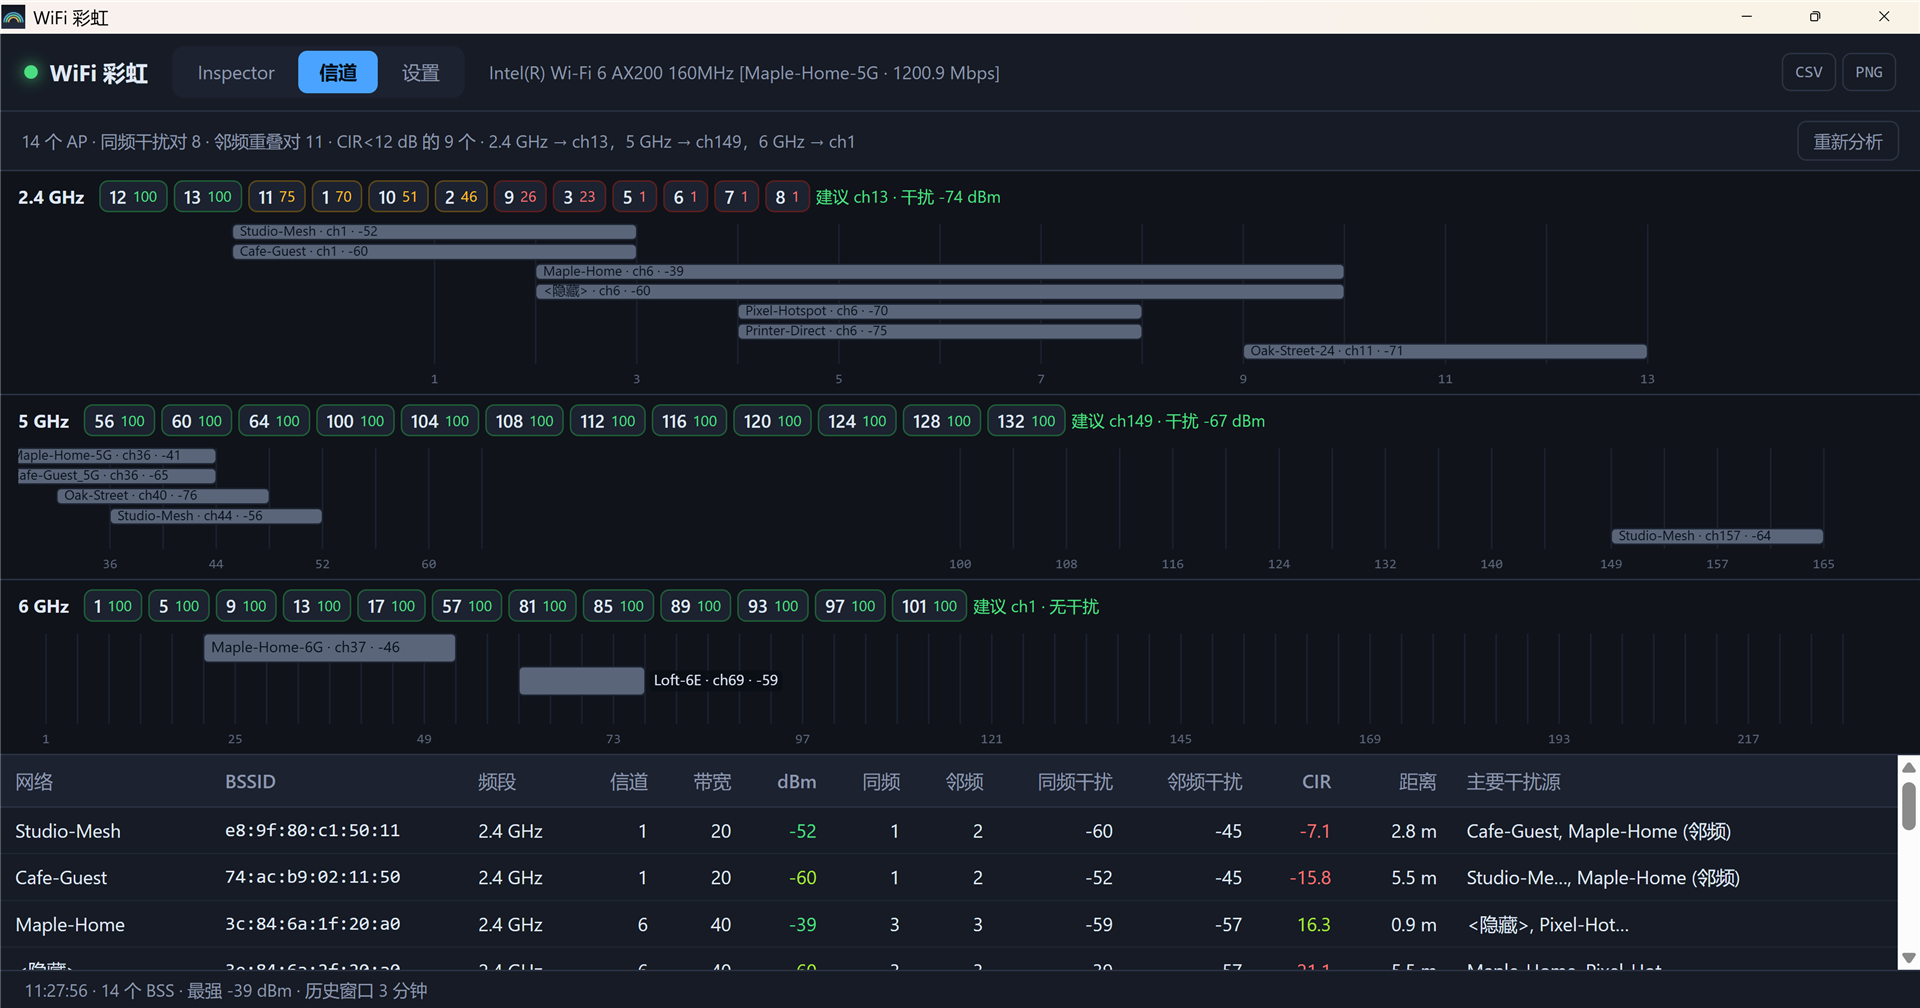
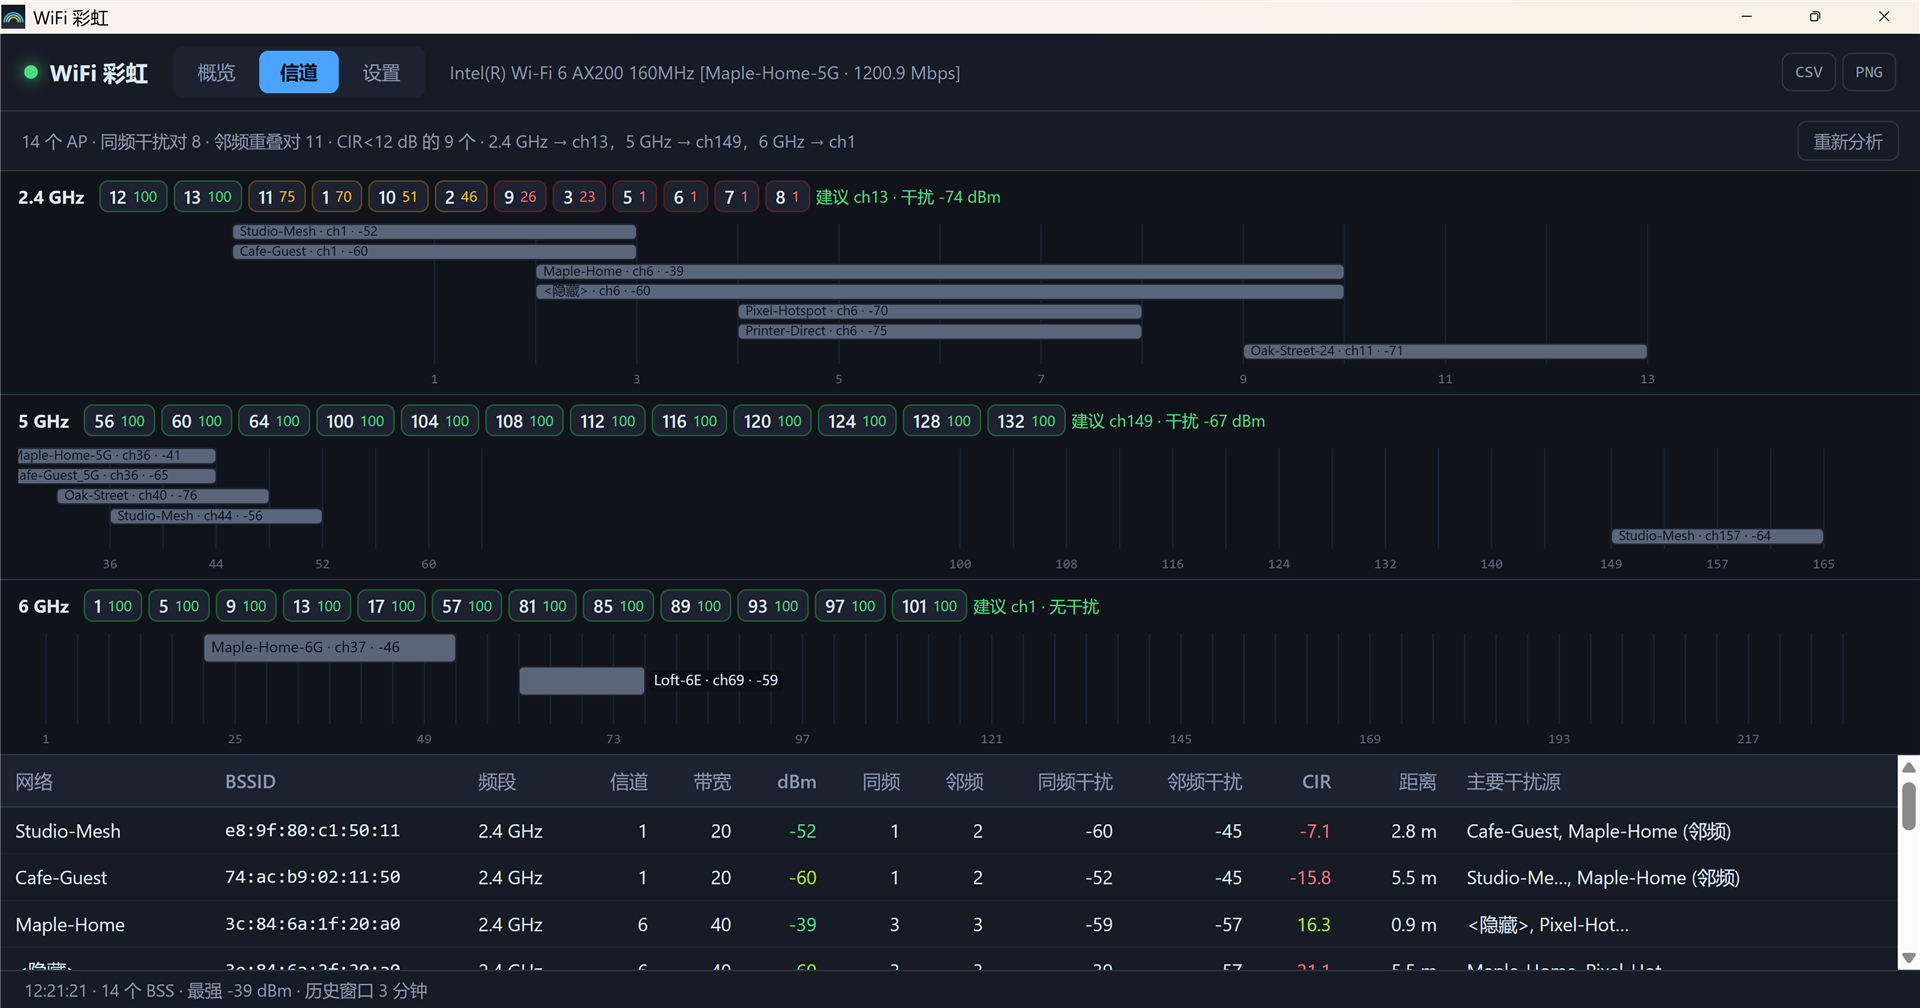
Channel hover highlight, "概览" as the Chinese Inspector name, clearer landing copy
- Channels view: hovering a channel score chip, or the spectrum at a
  channel number, highlights every AP whose spectrum overlaps that channel
  (bright bars with white outline, others dimmed, blue band behind the
  channel, "chN · k AP" label) and the matching table rows. Selftest
  probe `chhover` checks hit counts, table rows and clearing.
- Chinese UI: the Inspector tab is now 概览; manuals, README and landing
  page follow.
- Landing page copy rewritten in both languages in plain words; the
  Events tab now explains how to reach the panel and what each row means.
- Manuals gain a hover-highlight paragraph with screenshots; Chinese
  screenshots retaken with the new tab name.

Changed region(s): [[0.0938, 0.0308, 0.5312, 0.0923]]

diff --git a/rust/ui/channels.js b/rust/ui/channels.js
@@ -146,8 +146,22 @@ const Channels = (() => {
     return 'bad';
   }
 
+  // 当前高亮的信道：鼠标悬在评分标签上，或悬在频谱图里某个信道的位置
+  let hover = null; // { band, ch }
+  let lastBands = []; // 上一次 render 的 analyze 结果，重画单个频段时用
+
+  /** 一个 AP 算不算「在这个信道上」：和打分同一口径——频谱跟信道中心 ±10 MHz 有重叠 */
+  function onChannel(ap, band, ch) {
+    const center = freqOf(band, ch);
+    if (!center) return false;
+    const s = spanOf(ap);
+    return Math.min(center + 10, s.hi) - Math.max(center - 10, s.lo) > 0;
+  }
+
   function drawSpectrum(cv, bandInfo) {
     const { spec } = bandInfo;
+    const hl = hover && hover.band === bandInfo.band ? hover.ch : null;
+    cv._bandInfo = bandInfo;
     // 同频 AP 太多时行高会撑不住，只画最强的 8 个（完整清单在下表）
     const all = bandInfo.aps;
     const MAX_ROWS = 8;
@@ -164,6 +178,14 @@ const Channels = (() => {
     const baseline = padT + plotH;
     const xOf = (f) => padL + ((f - spec.min) / (spec.max - spec.min)) * plotW;
 
+    // 高亮信道：先铺一条浅色竖带（信道中心 ±10 MHz），再画刻度
+    cv._geom = { xOf, padL, padR, padT, baseline, w, h, plotW };
+    if (hl != null) {
+      const c = freqOf(bandInfo.band, hl);
+      ctx.fillStyle = 'rgba(74, 163, 255, 0.10)';
+      ctx.fillRect(xOf(c - 10), padT - 2, xOf(c + 10) - xOf(c - 10), baseline - padT + 2);
+    }
+
     // 底：候选信道的浅色刻度
     ctx.strokeStyle = '#1b2230';
     ctx.lineWidth = 1;
@@ -173,14 +195,21 @@ const Channels = (() => {
     const labelEvery = spec.chans.length > 26 ? 6 : 2;
     spec.chans.forEach((ch, i) => {
       const x = xOf(freqOf(bandInfo.band, ch));
+      ctx.strokeStyle = ch === hl ? '#4aa3ff' : '#1b2230';
       ctx.beginPath();
       ctx.moveTo(x, padT);
       ctx.lineTo(x, baseline);
       ctx.stroke();
-      if (i % labelEvery === 0) ctx.fillText(String(ch), x, h - 5);
+      if (i % labelEvery === 0 || ch === hl) {
+        ctx.fillStyle = ch === hl ? '#9fd0ff' : '#5b6579';
+        ctx.font = ch === hl ? 'bold 9px Consolas, monospace' : '9px Consolas, monospace';
+        ctx.fillText(String(ch), x, h - 5);
+      }
     });
+    ctx.font = '9px Consolas, monospace';
 
     if (!aps.length) {
+      cv._hl = null;
       ctx.fillStyle = '#4b5566';
       ctx.font = '12px "Segoe UI", sans-serif';
       ctx.textAlign = 'center';
@@ -199,15 +228,18 @@ const Channels = (() => {
       const y = padT + i * rowH;
       const bh = Math.max(5, rowH - 3);
       const color = rssiColor(ap.rssi);
-      ctx.fillStyle = hexAlpha(color, 0.75);
+      // 高亮态：命中的条全亮 + 白边，其余压暗
+      const hit = hl != null && onChannel(ap, bandInfo.band, hl);
+      const dim = hl != null && !hit;
+      ctx.fillStyle = hexAlpha(color, dim ? 0.18 : hit ? 0.95 : 0.75);
       ctx.beginPath();
       const r = Math.min(3, bh / 2);
       ctx.roundRect ? ctx.roundRect(x0, y, Math.max(3, x1 - x0), bh, r) : ctx.rect(x0, y, Math.max(3, x1 - x0), bh);
       ctx.fill();
-      ctx.strokeStyle = hexAlpha(color, 0.95);
-      ctx.lineWidth = 1;
+      ctx.strokeStyle = hit ? '#eef4fc' : hexAlpha(color, dim ? 0.3 : 0.95);
+      ctx.lineWidth = hit ? 1.5 : 1;
       ctx.stroke();
-      jobs.push({ x0, x1, y, bh, color, ap });
+      jobs.push({ x0, x1, y, bh, color, ap, hit, dim });
     });
 
     // 第二遍才写标签：块够宽写在块里（字色按块色算），不够宽贴到块外并垫一块深色底衬。
@@ -224,8 +256,9 @@ const Channels = (() => {
       }
     };
 
-    jobs.forEach(({ x0, x1, y, bh, color, ap }) => {
+    jobs.forEach(({ x0, x1, y, bh, color, ap, hit, dim }) => {
       const label = `${truncate(ap.ssid || t('ch.hidden'), 14)} · ch${ap.channel ?? '?'} · ${ap.rssi}`;
+      ctx.globalAlpha = dim ? 0.35 : 1;
       const fs = rowH >= 14 ? 10 : 9;
       ctx.font = `${fs}px "Segoe UI", "Microsoft YaHei UI", sans-serif`;
       ctx.textAlign = 'left';
@@ -251,7 +284,7 @@ const Channels = (() => {
       if (text !== label) text = text + '…';
       const tw = ctx.measureText(text).width;
       if (inside) {
-        ctx.fillStyle = inkOn(color, 0.75);
+        ctx.fillStyle = inkOn(color, hit ? 0.95 : 0.75);
         ctx.fillText(text, x0 + 5, ty);
       } else {
         let lx = x1 + 6;
@@ -263,9 +296,25 @@ const Channels = (() => {
       }
       labeled++;
       ctx.textBaseline = 'alphabetic';
+      ctx.globalAlpha = 1;
     });
 
     cv._labelStats = { bars: aps.length, labeled };
+    cv._hl = hl == null ? null : { ch: hl, hits: jobs.filter((j) => j.hit).map((j) => j.ap.bssid) };
+
+    // 高亮时在右上角写一行「chN · k 个 AP」
+    if (hl != null) {
+      const n = all.filter((a) => onChannel(a, bandInfo.band, hl)).length;
+      const sc = bandInfo.scored.find((s) => s.ch === hl);
+      const txt = t('ch.chip', { ch: hl, n, if: sc?.ifDbm ?? t('ch.none') });
+      ctx.font = '10px "Segoe UI", "Microsoft YaHei UI", sans-serif';
+      ctx.textAlign = 'right';
+      ctx.textBaseline = 'alphabetic';
+      const tw = ctx.measureText(txt).width;
+      chipBg(w - padR - 2 - tw, padT + 7, tw, 10);
+      ctx.fillStyle = '#9fd0ff';
+      ctx.fillText(txt, w - padR - 2, padT + 11);
+    }
 
     if (hidden > 0) {
       ctx.fillStyle = '#7d889c';
@@ -275,26 +324,79 @@ const Channels = (() => {
     }
   }
 
+  const bandId = (band) => band.replace(/[^0-9a-z]/gi, '');
+
+  /** 设置 / 清除高亮：只重画受影响的频段，并同步评分标签与表格行的高亮类 */
+  function highlight(band, ch) {
+    const next = band && ch != null ? { band, ch } : null;
+    if ((hover?.band ?? null) === (next?.band ?? null) && (hover?.ch ?? null) === (next?.ch ?? null)) return;
+    const prevBand = hover?.band;
+    hover = next;
+    for (const b of lastBands) {
+      if (b.band !== prevBand && b.band !== next?.band) continue;
+      const cv = document.querySelector(`#ch-spec-${bandId(b.band)}`);
+      if (cv) drawSpectrum(cv, b);
+    }
+    document.querySelectorAll('.ch-chip.hl').forEach((el) => el.classList.remove('hl'));
+    document.querySelectorAll('#ch-table tbody tr.hl').forEach((el) => el.classList.remove('hl'));
+    if (!next) return;
+    document.querySelector(`#ch-score-${bandId(next.band)} .ch-chip[data-ch="${next.ch}"]`)?.classList.add('hl');
+    const hits = new Set(Inspector.aps().filter((a) => a.band === next.band && onChannel(a, next.band, next.ch)).map((a) => a.bssid));
+    document.querySelectorAll('#ch-table tbody tr').forEach((tr) => tr.classList.toggle('hl', hits.has(tr.dataset.bssid)));
+  }
+
+  /** 频谱图上鼠标位置对应的信道：取中心频率最近、且在 ±10 MHz 内的候选信道 */
+  function channelAt(cv, ev) {
+    const g = cv._geom;
+    const b = cv._bandInfo;
+    if (!g || !b) return null;
+    const rect = cv.getBoundingClientRect();
+    const x = ev.clientX - rect.left;
+    if (x < g.padL || x > g.w - g.padR) return null;
+    const freq = b.spec.min + ((x - g.padL) / g.plotW) * (b.spec.max - b.spec.min);
+    let best = null;
+    for (const ch of b.spec.chans) {
+      const d = Math.abs(freqOf(b.band, ch) - freq);
+      if (d <= 10 && (!best || d < best.d)) best = { ch, d };
+    }
+    return best ? best.ch : null;
+  }
+
+  function bindHover(cv, band) {
+    if (cv._hoverBound) return;
+    cv._hoverBound = true;
+    cv.addEventListener('mousemove', (ev) => highlight(band, channelAt(cv, ev)));
+    cv.addEventListener('mouseleave', () => highlight(null));
+  }
+
   function render() {
     const aps = Inspector.aps();
     const { rows, bands } = analyze(aps);
+    lastBands = bands;
 
     // 频段：频谱 + 信道评分
     for (const b of bands) {
-      const cv = document.querySelector(`#ch-spec-${b.band.replace(/[^0-9a-z]/gi, '')}`);
-      if (cv) drawSpectrum(cv, b);
-      const host = document.querySelector(`#ch-score-${b.band.replace(/[^0-9a-z]/gi, '')}`);
+      const cv = document.querySelector(`#ch-spec-${bandId(b.band)}`);
+      if (cv) {
+        drawSpectrum(cv, b);
+        bindHover(cv, b.band);
+      }
+      const host = document.querySelector(`#ch-score-${bandId(b.band)}`);
       if (!host) continue;
       const top = [...b.scored].sort((a, c) => c.score - a.score || a.ch - c.ch).slice(0, 12);
       host.innerHTML = top
         .map(
-          (s) => `<span class="ch-chip ${scoreClass(s.score)}" title="${t('ch.chip', { ch: s.ch, n: s.count, if: s.ifDbm ?? '—' })}">
+          (s) => `<span class="ch-chip ${scoreClass(s.score)}${hover?.band === b.band && hover.ch === s.ch ? ' hl' : ''}" data-ch="${s.ch}" title="${t('ch.chip', { ch: s.ch, n: s.count, if: s.ifDbm ?? '—' })}">
             <b>${s.ch}</b><em>${s.score}</em></span>`
         )
         .join('') +
         (b.best
           ? `<span class="ch-best">${t(b.best.dfs ? 'ch.best.dfs' : 'ch.best', { ch: b.best.ch })} · ${b.best.ifDbm != null ? t('ch.ifdbm', { v: b.best.ifDbm }) : t('ch.ifnone')}</span>`
           : `<span class="ch-best">${t('ch.best.none')}</span>`);
+      host.querySelectorAll('.ch-chip[data-ch]').forEach((chip) => {
+        chip.addEventListener('mouseenter', () => highlight(b.band, Number(chip.dataset.ch)));
+        chip.addEventListener('mouseleave', () => highlight(null));
+      });
     }
 
     // 表格
@@ -326,7 +428,9 @@ const Channels = (() => {
           </tr>`;
         })
         .join('');
+      const hits = hover ? new Set(aps.filter((a) => a.band === hover.band && onChannel(a, hover.band, hover.ch)).map((a) => a.bssid)) : null;
       tbody.querySelectorAll('tr').forEach((tr) => {
+        if (hits) tr.classList.toggle('hl', hits.has(tr.dataset.bssid));
         tr.addEventListener('click', () => {
           const ap = Inspector.aps().find((a) => a.bssid === tr.dataset.bssid);
           if (ap) Detail.show(ap);
@@ -364,5 +468,5 @@ const Channels = (() => {
     render();
   }
 
-  return { init, activate, render, analyze, profile, distanceOf, freqOf, spanOf, overlapRatio };
+  return { init, activate, render, analyze, profile, distanceOf, freqOf, spanOf, overlapRatio, highlight, onChannel, hover: () => hover };
 })();

diff --git a/rust/ui/selftest.js b/rust/ui/selftest.js
@@ -59,6 +59,47 @@ const SelfTest = (() => {
       log('error', 'channels probe failed: ' + e);
     }
 
+    // 信道高亮：悬停评分标签 → 对应频谱里命中的条数 = 按 ±10 MHz 口径算出的 AP 数；表格高亮行数一致；离开后清空
+    try {
+      clickTab('channels');
+      await frames();
+      const out = [];
+      for (const band of ['2.4 GHz', '5 GHz']) {
+        const id = band.replace(/[^0-9a-z]/gi, '');
+        const chip = document.querySelector(`#ch-score-${id} .ch-chip[data-ch]`);
+        const cv = document.querySelector(`#ch-spec-${id}`);
+        if (!chip || !cv) {
+          out.push(`${band}:no-chip`);
+          continue;
+        }
+        const ch = Number(chip.dataset.ch);
+        chip.dispatchEvent(new MouseEvent('mouseenter', { bubbles: false }));
+        await frames();
+        const expect = Inspector.aps().filter((a) => a.band === band && Channels.onChannel(a, band, ch));
+        const drawn = Math.min(8, expect.length); // 频谱最多画 8 条
+        const hits = cv._hl?.hits?.length ?? -1;
+        const rows = document.querySelectorAll('#ch-table tbody tr.hl').length;
+        const chipOn = chip.classList.contains('hl');
+        chip.dispatchEvent(new MouseEvent('mouseleave', { bubbles: false }));
+        await frames();
+        const cleared = cv._hl === null && document.querySelectorAll('#ch-table tbody tr.hl, .ch-chip.hl').length === 0;
+        // 画布悬停：在该信道中心位置造一次 mousemove，应该命中同一个信道
+        const g = cv._geom;
+        const b = cv._bandInfo;
+        const x = g.xOf(Channels.freqOf(band, ch));
+        const r = cv.getBoundingClientRect();
+        cv.dispatchEvent(new MouseEvent('mousemove', { bubbles: true, clientX: r.left + x, clientY: r.top + r.height / 2 }));
+        await frames();
+        const viaCanvas = Channels.hover()?.ch === ch && Channels.hover()?.band === band;
+        cv.dispatchEvent(new MouseEvent('mouseleave'));
+        await frames();
+        out.push(`${band}:ch${ch} expect=${expect.length} drawnHits=${hits}/${drawn} rowsHl=${rows} chipOn=${chipOn} cleared=${cleared} canvasHover=${viaCanvas} bars=${b.aps.length}`);
+      }
+      log('info', `selftest chhover: ${out.join(' | ')}`);
+    } catch (e) {
+      log('error', 'chhover probe failed: ' + e);
+    }
+
     // Inspector 布局（用来核对 300% 缩放机器上的实际视口）
     try {
       clickTab('inspector');

diff --git a/rust/ui/i18n.js b/rust/ui/i18n.js
@@ -7,7 +7,7 @@
  *   <button data-i18n-title="chart.max">  只换 title 属性
  *   <input data-i18n-ph="bar.filter">     只换 placeholder
  *
- * 约定：频段名（2.4 GHz）、单位（dBm / MHz / s / m）、信道号（ch36）、BSSID、SSID
+ * 约定：Inspector 视图中文叫「概览」。频段名（2.4 GHz）、单位（dBm / MHz / s / m）、信道号（ch36）、BSSID、SSID
  * 这类行业写法不进字典，两种语言下都一样。SSID 为空的网络按各自语言显示 <hidden>。
  * 开发者日志（ui.log）不进字典，保持中文，方便排查。
  */
@@ -21,7 +21,7 @@ const I18n = (() => {
   const DICT = {
     zh: {
       'app.name': 'WiFi 彩虹',
-      'tab.inspector': 'Inspector',
+      'tab.inspector': '概览',
       'tab.channels': '信道',
       'tab.settings': '设置',
 
@@ -179,7 +179,7 @@ const I18n = (() => {
       'set.bands.hint': '关掉的频段一律不参与',
       'set.scan': '扫描',
       'set.scansec': '自动刷新间隔',
-      'set.scansec.hint': '顶栏那个「自动刷新」开着时才生效，只在 Inspector 视图扫描',
+      'set.scansec.hint': '顶栏那个「自动刷新」开着时才生效，只在「概览」视图扫描',
       'set.sec': '秒',
       'set.iface': '扫描网卡',
       'set.iface.hint': '多块无线网卡时选一块；选中的网卡拔掉后自动退回全部',

diff --git a/rust/ui/style.css b/rust/ui/style.css
@@ -456,6 +456,11 @@ tbody td { padding: 6px 10px; white-space: nowrap; }
 .ch-chip.bad { border-color: #5c1e1e; }
 .ch-chip.bad em { color: var(--bad); }
 .ch-best { margin-left: auto; font-size: 11px; color: var(--good); white-space: nowrap; }
+.ch-chip { cursor: default; }
+.ch-chip.hl { background: #14304d; border-color: var(--accent); color: #dbe6f5; }
+.ch-chip.hl em { color: #9fd0ff; }
+#ch-table tbody tr.hl > td { background: #1d2a3d; }
+#ch-table tbody tr.hl > td:first-child { box-shadow: inset 3px 0 0 var(--accent); }
 
 .ch-table-wrap { background: var(--panel); overflow: auto; padding-bottom: 6px; }
 #ch-table tbody tr { cursor: pointer; }

diff --git a/rust/ui/demo.js b/rust/ui/demo.js
@@ -149,6 +149,10 @@ const Demo = (() => {
       Inspector.toggleMax('b1');
     } else if (view === 'channels') {
       clickTab('channels');
+    } else if (view === 'chhover') {
+      clickTab('channels');
+      await frames();
+      Channels.highlight('2.4 GHz', 6);
     } else if (view === 'settings') {
       clickTab('settings');
     }

diff --git a/TODO.md b/TODO.md
@@ -5,7 +5,7 @@
 
 ## 0. 现在在哪儿
 
-能用的：Inspector（三频段弧形图 + 3 分钟信号历史 / 变更事件 + 可排序筛选、**可按路由分组**的 AP 表）、信道视图（频谱占用 + 同/邻频重叠 + CIR + 候选信道评分）、AP 详情抽屉（含**当前连接实况**、别名、关注）、设置（隐藏 SSID / 最低信号 / 频段开关 / 刷新间隔 / 扫描网卡 / 分组 / 关注列表 / 别名 / 中英双语）、CSV / PNG 导出。
+能用的：概览 / Inspector（三频段弧形图 + 3 分钟信号历史 / 变更事件 + 可排序筛选、**可按路由分组**的 AP 表）、信道视图（频谱占用 + 同/邻频重叠 + CIR + 候选信道评分）、AP 详情抽屉（含**当前连接实况**、别名、关注）、设置（隐藏 SSID / 最低信号 / 频段开关 / 刷新间隔 / 扫描网卡 / 分组 / 关注列表 / 别名 / 中英双语）、CSV / PNG 导出。
 
 数据层：`wlanapi` 零依赖 FFI，字段到 IE 级（HT/VHT/HE/RSN/Cipher、BSS Load），另加 `WlanQueryInterface(current_connection)` 拿实际协商的 AKM/cipher/速率。2026-10-24 抓到并修掉一个从第一天就在的解析 bug——IE 块是 8 字节对齐而不是 4 字节。
 
@@ -68,7 +68,7 @@
 | 6 GHz | 零真机数据 |
 | 高 DPI | 只在 300%（3840×2160）验过；100% / 125% / 200% 未验 |
 | 窄窗 | `minWidth 480 × minHeight 380` 是设了，但没在这个尺寸下验过布局；导出按钮和分组/自动刷新开关在 ≤1040 CSS px 时隐藏 |
-| 语言 | 只有中 / 英。`Inspector` 中英同形是有意的；频段名与 dBm/MHz/ch36 不翻译是约定 |
+| 语言 | 只有中 / 英。Inspector 视图中文叫「概览」（2026-10-25 定）；频段名与 dBm/MHz/ch36 不翻译是约定 |
 | 采样方式 | 轮询（Windows 无 monitor 模式），瞬时突发看不到；间隔最小值 1 秒也受扫描本身耗时（~2.2s）限制，实测 `scanSec=2` 时 6 秒内只扫 1~2 次 |
 | 干扰模型 | 只看功率重叠，不建 CSMA 竞争模型；距离估算是 1m/-40dBm、n=2.7 的简化公式，只能当相对参考 |
 | 导出目录 | 写死「下载」（`%USERPROFILE%\Downloads`），没有就落 `%LOCALAPPDATA%\WiFiRainbow\export`；没做「另存为」对话框（那要 `rfd`，已随 Survey 一起删掉） |

diff --git a/docs/manual.en.md b/docs/manual.en.md
@@ -134,6 +134,10 @@ For each band:
 
 The table lists every AP with its co-channel and adjacent-channel neighbours, the interference power from each kind, the CIR, the estimated distance and the main interferers. Click a row to open the details drawer. *Re-analyze* recomputes from the last scan without rescanning.
 
+**Who is on a channel?** Hover a channel's score chip, or hover the spectrum at that channel number, and the bars of the APs on that channel light up (white outline) while the others dim; a light-blue band marks the channel's range, the top-right corner shows how many APs are on it and how strong the interference is, and the matching rows in the table are highlighted too. "On the channel" uses the same rule as the score: the AP's spectrum overlaps the channel centre ±10 MHz. Move the mouse away to restore.
+
+![Hovering channel 6 on 2.4 GHz](images/en-chhover.png)
+
 The model sums overlapping power only; it does not simulate CSMA contention. Treat the numbers as a ranking, not a prediction of throughput.
 
 ## 6. Export

diff --git a/README.md b/README.md
@@ -31,6 +31,7 @@ Requirements: Windows 10 / 11 x64, a wireless adapter, the [WebView2 runtime](ht
 - Spectrum occupancy per band
 - Co-/adjacent-channel overlap, carrier-to-interference ratio (CIR), main interferers
 - Channel scores and a recommended channel per band (5 GHz avoids DFS)
+- Hover a channel to highlight every AP on it
 
 **AP details drawer**
 - Signal / quality / estimated distance / vendor, 3-minute sparkline, interference profile
